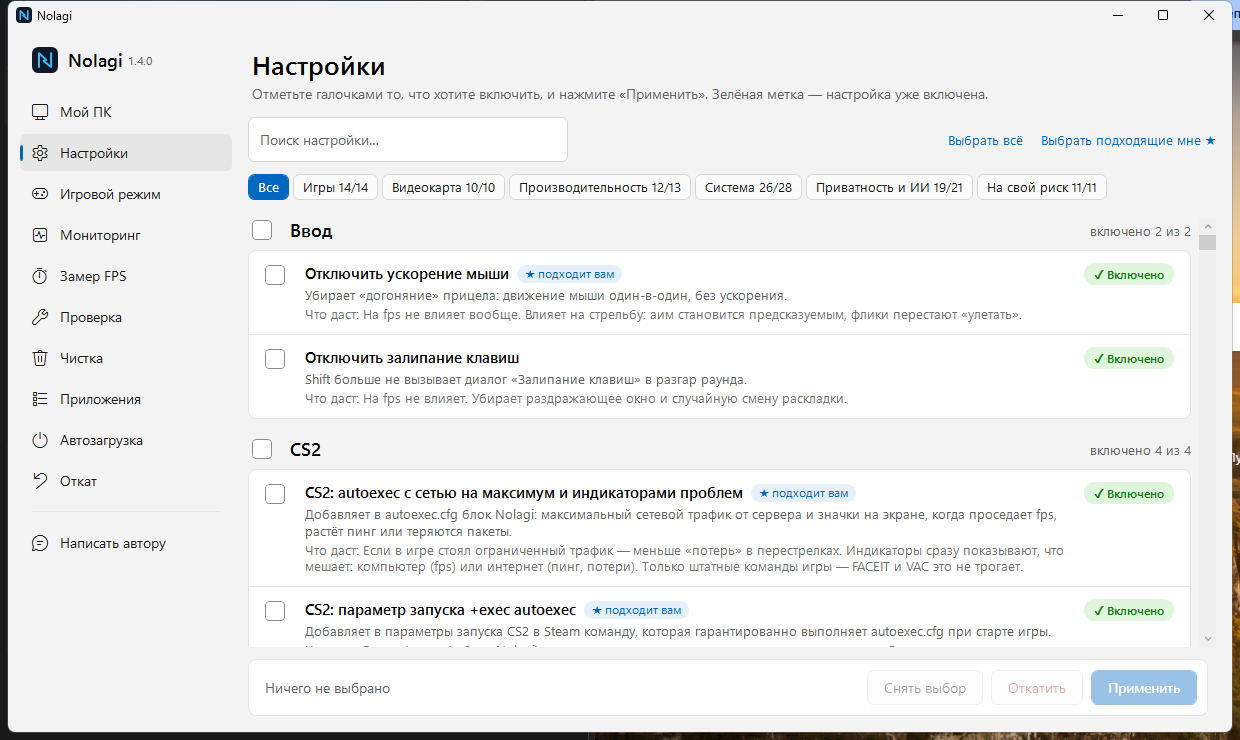
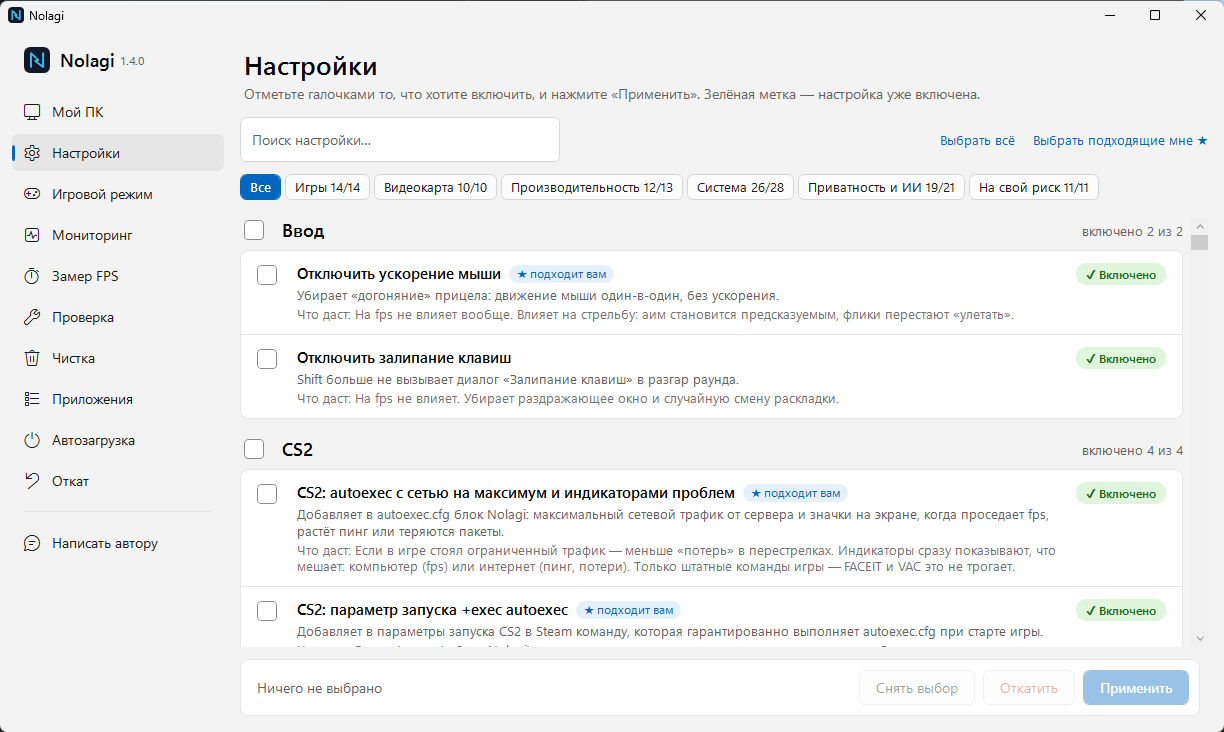
Игровой режим: исправления по ревью
- Выход при обновлении и при ошибке старта больше не прячет окно в трей: всё возвращается, ETW и значок убираются.
- Программа с видимым окном (например, «Сохранить изменения?») не убивается силой; решение — сразу за всю программу.
- Скачанная новая версия просит открытую старую выйти и ставится сама.
- Восстановление после аварийного выхода посреди игры (gamemode-pending.json).
- Запасной запуск через explorer пишет причину в журнал ошибок; schtasks не тормозит вкладку; dev-сборка со своим мьютексом.
- Скриншоты без рамки окна и обоев, сжаты (в 3 раза легче).

diff --git a/site/index.html b/site/index.html
@@ -337,7 +337,7 @@ footer a:hover{color:var(--ink)}
         <div class="ico"><svg viewBox="0 0 24 24" fill="none" stroke="currentColor" stroke-width="1.4" stroke-linecap="round"><path d="M4 7h9M17 7h3M4 17h3M11 17h9"/><circle cx="15" cy="7" r="2"/><circle cx="9" cy="17" r="2"/></svg></div>
         <h3>Около 100 настроек под ваш компьютер</h3>
         <p>Windows, видеокарта, CS2 и Dota 2. Nolagi смотрит на процессор, видеокарту, память и монитор и отмечает «подходит вам» — включается всё одной кнопкой.</p>
-        <img class="shot" src="img/2-nastroyki.png" width="1240" height="740" loading="lazy" alt="Вкладка «Настройки» в Nolagi">
+        <img class="shot" src="img/2-nastroyki.png" width="1224" height="732" loading="lazy" alt="Вкладка «Настройки» в Nolagi">
       </div></div></div>
 
       <div class="b-2 rv d1"><div class="shell"><div class="core">
@@ -402,7 +402,7 @@ footer a:hover{color:var(--ink)}
         <div class="key"><kbd>Ctrl+F11</kbd><p><b>Запись замера</b> прямо в игре — график по секундам и сравнение с прошлым разом.</p></div>
       </div>
     </div>
-    <div class="rv d1"><div class="shell"><div class="core"><img src="img/4-zamer-fps.png" width="1240" height="740" loading="lazy" alt="Вкладка «Замер FPS» в Nolagi"></div></div></div>
+    <div class="rv d1"><div class="shell"><div class="core"><img src="img/4-zamer-fps.png" width="1224" height="732" loading="lazy" alt="Вкладка «Замер FPS» в Nolagi"></div></div></div>
   </div>
 </section>
 

diff --git a/app/src/GameModeEngine.cs b/app/src/GameModeEngine.cs
@@ -67,6 +67,8 @@ namespace Pckit
 
     public class GameModeEngine
     {
+        [DllImport("user32.dll")] static extern bool IsWindowVisible(IntPtr h);
+
         readonly object sync = new object();
         static readonly int MySession = Process.GetCurrentProcess().SessionId;
         static readonly int MyPid = Process.GetCurrentProcess().Id;
@@ -75,6 +77,7 @@ namespace Pckit
         int gamePid;
         DateTime since;
         readonly List<string> closedNames = new List<string>();
+        readonly List<string> refusedNames = new List<string>();   // спросили «Сохранить?» — не трогаем
         readonly List<string> restart = new List<string>();                 // команды, которыми запустить закрытое обратно
         readonly Dictionary<int, Tuple<DateTime, ProcessPriorityClass>> lowered = new Dictionary<int, Tuple<DateTime, ProcessPriorityClass>>();
         int purges;
@@ -106,6 +109,7 @@ namespace Pckit
                         Process g = all.FirstOrDefault(p => p.Id == gamePid);
                         if (g == null || !string.Equals(ExeName(g), Game, StringComparison.OrdinalIgnoreCase)) { EndLocked(true); return; }
                         LowerAll(all, c);      // браузер, открытый посреди матча, тоже уступает игре
+                        if (lowered.Count != savedLowered) SavePending();
                         if (c.MemClean && MemPurge.Suits) MaybePurge();
                         Status = Describe();
                     }
@@ -123,10 +127,56 @@ namespace Pckit
         void Begin(Process game, string exe, Process[] all, GameModeConfig c)
         {
             Game = exe; gamePid = game.Id; since = DateTime.Now;
-            closedNames.Clear(); restart.Clear(); lowered.Clear(); purges = 0;
+            closedNames.Clear(); refusedNames.Clear(); restart.Clear(); lowered.Clear(); purges = 0;
             CloseApps(all, c);
             LowerAll(all, c);
+            SavePending();
             Status = Describe();
+        }
+
+        // ---- если Nolagi упадёт или его закроют через диспетчер задач посреди игры, при следующем запуске всё вернётся
+
+        static string PendingPath { get { return Path.Combine(Environment.GetFolderPath(Environment.SpecialFolder.LocalApplicationData), "Nolagi", "gamemode-pending.json"); } }
+        int savedLowered = -1;
+
+        void SavePending()
+        {
+            if (savedLowered == lowered.Count && restart.Count == 0 && lowered.Count == 0) return;
+            savedLowered = lowered.Count;
+            try
+            {
+                var low = lowered.Select(kv => (object)new Dictionary<string, object> {
+                    { "pid", kv.Key }, { "start", kv.Value.Item1.ToBinary().ToString(System.Globalization.CultureInfo.InvariantCulture) }, { "prio", (int)kv.Value.Item2 } }).ToArray();
+                Directory.CreateDirectory(Path.GetDirectoryName(PendingPath));
+                File.WriteAllText(PendingPath, J.Write(new Dictionary<string, object> { { "restart", restart.ToArray() }, { "lowered", low } }), new UTF8Encoding(false));
+            }
+            catch { }
+        }
+
+        static void DropPending() { try { File.Delete(PendingPath); } catch { } }
+
+        /// Вызывается при старте Nolagi: вернуть то, что не вернул упавший прошлый запуск.
+        public static void RecoverAfterCrash()
+        {
+            try
+            {
+                if (!File.Exists(PendingPath)) return;
+                var d = J.Parse(File.ReadAllText(PendingPath, Encoding.UTF8));
+                DropPending();
+                foreach (var l in J.A(d, "lowered"))
+                {
+                    try
+                    {
+                        var start = DateTime.FromBinary(long.Parse(J.S(l, "start"), System.Globalization.CultureInfo.InvariantCulture));
+                        using (var p = Process.GetProcessById((int)J.N(l, "pid")))
+                            if (p.StartTime == start && p.PriorityClass == ProcessPriorityClass.BelowNormal) p.PriorityClass = (ProcessPriorityClass)(int)J.N(l, "prio");
+                    }
+                    catch { }
+                }
+                var cmds = J.Get(d, "restart") as object[];
+                if (cmds != null) foreach (var c in cmds) { string s = Convert.ToString(c); if (!string.IsNullOrEmpty(s)) Unelevated.Start(s); }
+            }
+            catch { }
         }
 
         void EndLocked(bool restartApps)
@@ -144,6 +194,7 @@ namespace Pckit
             lowered.Clear();
             if (restartApps) foreach (var cmd in restart) Unelevated.Start(cmd);
             restart.Clear();
+            DropPending(); savedLowered = -1;
             Game = null; gamePid = 0;
             Status = "Ждёт запуска игры.";
         }
@@ -154,6 +205,7 @@ namespace Pckit
             if (!GameRules.BuiltInGames.TryGetValue(Game, out name)) name = Path.GetFileNameWithoutExtension(Game);
             var parts = new List<string>();
             if (closedNames.Count > 0) parts.Add("закрыто: " + string.Join(", ", closedNames));
+            if (refusedNames.Count > 0) parts.Add("не закрыто, ждёт ответа в своём окне: " + string.Join(", ", refusedNames));
             if (lowered.Count > 0) parts.Add("понижен приоритет у " + lowered.Count + " " + Plural(lowered.Count, "процесса", "процессов", "процессов"));
             if (purges > 0) parts.Add("память очищена " + purges + " " + Plural(purges, "раз", "раза", "раз"));
             int min = (int)(DateTime.Now - since).TotalMinutes;
@@ -183,19 +235,26 @@ namespace Pckit
                 string cmd = ProcInfo.CommandLine(first.Id);
                 if (string.IsNullOrEmpty(cmd)) { string path = ProcInfo.ImagePath(first.Id); if (path != null) cmd = "\"" + path + "\""; }
                 string label = ProcInfo.Describe(ProcInfo.ImagePath(first.Id), grp.Key);
-                bool closed = false;
-                foreach (var p in procs) { try { if (p.MainWindowHandle != IntPtr.Zero) p.CloseMainWindow(); } catch { } }
-                var deadline = DateTime.Now.AddSeconds(3);
+                // сначала просим закрыться по-хорошему; силой — только то, у чего не осталось видимого окна
+                // (лаунчер ушёл в трей). Если программа показывает окно — например, «Сохранить изменения?», — не трогаем.
+                bool asked = false;
+                foreach (var p in procs) { try { if (p.MainWindowHandle != IntPtr.Zero) { p.CloseMainWindow(); asked = true; } } catch { } }
+                var deadline = DateTime.Now.AddSeconds(asked ? 5 : 0);
+                var alive = new List<Process>();
                 foreach (var p in procs)
                 {
                     try
                     {
                         int left = (int)Math.Max(0, (deadline - DateTime.Now).TotalMilliseconds);
-                        if (!p.WaitForExit(p.MainWindowHandle != IntPtr.Zero ? left : 0)) p.Kill();
-                        closed = true;
+                        if (!p.WaitForExit(left)) alive.Add(p);
                     }
                     catch { }
                 }
+                // решаем за всю программу сразу: убить помощников, пока главное окно спрашивает «Сохранить?», — значит сломать её
+                bool refused = alive.Any(p => { try { p.Refresh(); IntPtr w = p.MainWindowHandle; return w != IntPtr.Zero && IsWindowVisible(w); } catch { return false; } });
+                if (refused) { refusedNames.Add(label); continue; }
+                bool closed = alive.Count < procs.Count;
+                foreach (var p in alive) { try { p.Kill(); closed = true; } catch { } }
                 if (!closed) continue;
                 closedNames.Add(label);
                 if (cmd != null && !restart.Contains(cmd)) restart.Add(cmd);
@@ -334,6 +393,9 @@ namespace Pckit
             if (exe == null || !File.Exists(exe)) return;
             if (!SafeDir.Elevated) { TryPlain(exe, cmdLine); return; }   // dev-сборка и так без прав администратора
             if (WithShellToken(cmdLine, Path.GetDirectoryName(exe))) return;
+            // запасной путь через explorer запускает без прав администратора, но без аргументов (лаунчер может открыться окном) —
+            // пишем причину, чтобы такие случаи были видны в панели автора
+            Telemetry.Error("gamemode-restart", "fallback to explorer: " + Path.GetFileName(exe) + ", win32 " + lastError);
             try { Process.Start(new ProcessStartInfo("explorer.exe", "\"" + exe + "\"") { UseShellExecute = false }); } catch { }
         }
 
@@ -347,7 +409,16 @@ namespace Pckit
             catch { }
         }
 
+        static int lastError;
+
         static bool WithShellToken(string cmdLine, string dir)
+        {
+            bool ok = TryShellToken(cmdLine, dir);
+            if (!ok) lastError = Marshal.GetLastWin32Error();
+            return ok;
+        }
+
+        static bool TryShellToken(string cmdLine, string dir)
         {
             int pid;
             IntPtr shell = GetShellWindow();

diff --git a/app/src/GameMode.cs b/app/src/GameMode.cs
@@ -17,7 +17,9 @@ namespace Pckit
 {
     public partial class MainWindow
     {
-        public const string ShowEventName = "Local\\Nolagi.Show";
+        static readonly string DevSuffix = Path.GetFileName(System.Reflection.Assembly.GetExecutingAssembly().Location).IndexOf("-dev", StringComparison.OrdinalIgnoreCase) >= 0 ? ".dev" : "";
+        public static readonly string ShowEventName = "Local\\Nolagi.Show" + DevSuffix;   // вторая копия просит показать окно
+        public static readonly string ExitEventName = "Local\\Nolagi.Exit" + DevSuffix;   // скачанная новая версия просит выйти
 
         RadioButton navGame;
         readonly GameModeEngine gm = new GameModeEngine();
@@ -28,6 +30,7 @@ namespace Pckit
         System.Windows.Forms.ToolStripMenuItem trayGameItem;
         bool reallyExit, sessionEnding;
         bool startHidden, neverShown;
+        bool autoCache;   // последнее известное состояние автозапуска — чтобы галочка не мигала при перерисовке
 
         /// Вызывается из конструктора: запуск в трее и сигнал «покажись» от второй копии Nolagi.
         void InitInstance(bool hidden)
@@ -45,6 +48,14 @@ namespace Pckit
                 var ev = new EventWaitHandle(false, EventResetMode.AutoReset, ShowEventName);
                 var t = new Thread(() => { while (true) { ev.WaitOne(); Dispatcher.BeginInvoke(new Action(ShowFromTray)); } }) { IsBackground = true };
                 t.Start();
+                var ex = new EventWaitHandle(false, EventResetMode.AutoReset, ExitEventName);
+                var t2 = new Thread(() =>
+                {
+                    ex.WaitOne();
+                    // выходим по-настоящему: закрытые игровым режимом программы вернутся, приоритеты восстановятся
+                    Dispatcher.BeginInvoke(new Action(() => { reallyExit = true; Close(); }));
+                }) { IsBackground = true };
+                t2.Start();
             }
             catch { }
         }
@@ -52,8 +63,10 @@ namespace Pckit
         /// После построения окна: игровой режим, если он был включён.
         void InitGameMode()
         {
-            if (cfg.GameModeOn) StartGameMode();
             if (startHidden || cfg.GameModeOn) EnsureTray();
+            // сначала вернуть то, что не вернул прошлый запуск (если он упал посреди игры), потом следить за играми
+            Task.Run(() => GameModeEngine.RecoverAfterCrash())
+                .ContinueWith(t => Dispatcher.BeginInvoke(new Action(() => { if (cfg.GameModeOn) StartGameMode(); })));
         }
 
         GameModeConfig GmSnapshot()
@@ -214,10 +227,13 @@ namespace Pckit
             });
 
             // автозапуск
-            var auto = new CheckBox { Style = St("Chk"), Margin = new Thickness(0, 14, 0, 0), IsEnabled = Autostart.Available };
-            bool autoOn = false;
-            try { autoOn = Autostart.On; } catch { }
-            auto.IsChecked = autoOn;
+            var auto = new CheckBox { Style = St("Chk"), Margin = new Thickness(0, 14, 0, 0), IsEnabled = false, IsChecked = autoCache };
+            if (Autostart.Available)
+            {
+                // schtasks.exe — отдельный процесс: спрашиваем в фоне, чтобы вкладка не подвисала
+                Task.Run(() => { try { return Autostart.On; } catch { return false; } })
+                    .ContinueWith(t => Dispatcher.BeginInvoke(new Action(() => { autoCache = t.Result; auto.IsChecked = t.Result; auto.IsEnabled = true; })));
+            }
             auto.Content = new TextBlock { Text = "Запускать Nolagi вместе с Windows (сразу в трей)", Margin = new Thickness(8, 0, 0, 0) };
             var autoNote = new TextBlock { FontSize = 12.5, Foreground = Res("Mut"), TextWrapping = TextWrapping.Wrap, Margin = new Thickness(30, 2, 0, 0) };
             autoNote.Text = Autostart.Available
@@ -229,7 +245,7 @@ namespace Pckit
                 auto.IsEnabled = false;
                 bool ok = await Task.Run(() => { try { return Autostart.Set(want); } catch { return false; } });
                 bool now = await Task.Run(() => { try { return Autostart.On; } catch { return false; } });
-                auto.IsChecked = now; auto.IsEnabled = true;
+                auto.IsChecked = now; auto.IsEnabled = true; autoCache = now;
                 if (!ok) { autoNote.Text = "Не получилось изменить автозапуск. Попробуйте ещё раз."; autoNote.Foreground = Res("Bad"); }
                 else if (want && !cfg.GameModeOn) { SetGameMode(true); on.IsChecked = true; }
             };

diff --git a/app/src/App.cs b/app/src/App.cs
@@ -32,7 +32,22 @@ namespace Pckit
 
             // одна копия: вторая (ярлык, пока Nolagi в трее) просто показывает окно первой
             bool tray = args.Contains("/tray"), first;
-            var single = new System.Threading.Mutex(true, "Local\\Nolagi.App" + (SafeDir.Elevated ? "" : ".dev"), out first);
+            bool dev = System.IO.Path.GetFileName(Assembly.GetExecutingAssembly().Location).IndexOf("-dev", StringComparison.OrdinalIgnoreCase) >= 0;
+            string mutexName = "Local\\Nolagi.App" + (dev ? ".dev" : "");
+            var single = new System.Threading.Mutex(true, mutexName, out first);
+            if (!first && !tray && Install.IsNewerDownload)
+            {
+                // скачали новую версию, а старая открыта (например, в трее): просим её выйти и ставим новую
+                try { System.Threading.EventWaitHandle.OpenExisting(Pckit.MainWindow.ExitEventName).Set(); } catch { }
+                bool got;
+                try { got = single.WaitOne(20000); } catch (System.Threading.AbandonedMutexException) { got = true; }
+                if (got)
+                {
+                    single.ReleaseMutex();
+                    if (Install.EnsureInstalled(args)) return;   // установлено и запущено из Program Files
+                    single = new System.Threading.Mutex(true, mutexName, out first);
+                }
+            }
             if (!first)
             {
                 if (!tray) try { System.Threading.EventWaitHandle.OpenExisting(Pckit.MainWindow.ShowEventName).Set(); } catch { }
@@ -171,6 +186,7 @@ namespace Pckit
             catch (Exception ex)
             {
                 MessageBox.Show("Не удалось распаковать файлы программы:\n" + ex.Message, "Nolagi", MessageBoxButton.OK, MessageBoxImage.Error);
+                reallyExit = true;   // настоящий выход, не в трей
                 Close();
                 return;
             }
@@ -183,6 +199,7 @@ namespace Pckit
             {
                 Telemetry.Error("scan", ex.Message);
                 MessageBox.Show("Не удалось проверить компьютер:\n" + ex.Message, "Nolagi", MessageBoxButton.OK, MessageBoxImage.Error);
+                reallyExit = true;   // настоящий выход, не в трей
                 Close();
                 return;
             }
@@ -428,6 +445,7 @@ namespace Pckit
                 return;
             }
             currentOv.Finished = true;
+            reallyExit = true;   // иначе OnClosing спрячет окно в трей и ничего не вернёт
             Application.Current.Shutdown();
         }
 

diff --git a/app/src/Install.cs b/app/src/Install.cs
@@ -66,6 +66,21 @@ namespace Pckit
             }
         }
 
+        /// Этот exe — скачанная версия новее установленной (а установленная, видимо, сейчас открыта).
+        public static bool IsNewerDownload
+        {
+            get
+            {
+                try
+                {
+                    if (!SafeDir.Elevated || IsInstalledCopy || !File.Exists(Exe)) return false;
+                    if (Path.GetFileName(Self).IndexOf("-dev", StringComparison.OrdinalIgnoreCase) >= 0) return false;
+                    return new Version(App.Version) > new Version(FileVersionInfo.GetVersionInfo(Exe).FileVersion);
+                }
+                catch { return false; }
+            }
+        }
+
         static bool InstalledRunning()
         {
             int me = Process.GetCurrentProcess().Id;

diff --git a/CHANGELOG.md b/CHANGELOG.md
@@ -6,9 +6,11 @@
   - Для каждой программы выбирается «Закрыть», «Ниже приоритет» или «Не трогать». По умолчанию закрываются лаунчеры (Epic, EA, Ubisoft, Battle.net, GOG) и OneDrive, браузеры и торренты уступают процессор игре, Discord, OBS, Telegram и Spotify не трогаются.
   - Закрытые программы после игры запускаются снова — с той же командой (лаунчер возвращается в трей) и с обычными правами, без администратора.
   - Steam, FACEIT, античиты и системные программы Windows не трогаются никогда.
+  - Программа, которая в ответ на закрытие спрашивает «Сохранить изменения?», не закрывается силой — Nolagi оставляет её как есть.
+  - Если Nolagi закроется аварийно посреди игры, при следующем запуске закрытые программы запустятся снова, а приоритеты вернутся.
 - **Очистка «ждущей» памяти во время игры** (как ISLC) — только на ПК с 16 ГБ памяти и меньше и только когда свободной памяти остаётся меньше 1 ГБ, не чаще раза в 2 минуты.
 - **Автозапуск в трей** (по желанию, по умолчанию выключен): чтобы игровой режим срабатывал, даже если вы не открывали Nolagi. Если игровой режим включён, крестик сворачивает Nolagi в трей; выйти совсем — правый клик по значку → «Выход».
-- Повторный запуск Nolagi больше не открывает вторую копию, а показывает уже открытое окно.
+- Повторный запуск Nolagi больше не открывает вторую копию, а показывает уже открытое окно. Если запустить скачанную более новую версию, старая закроется сама и новая установится.
 
 ## 1.3.0
 

diff --git a/PRIVACY.md b/PRIVACY.md
@@ -35,6 +35,7 @@ Nolagi работает на вашем ПК и ничего не отправл
 ## Что хранится на ПК
 
 - `%LOCALAPPDATA%\Nolagi\client.json` — ник, согласие, номер установки, включён ли оверлей FPS, настройки игрового режима (свои игры и что делать с какой программой — только имена exe-файлов). Никуда не отправляется.
+- `%LOCALAPPDATA%\Nolagi\gamemode-pending.json` — только пока идёт игра с включённым игровым режимом: какие программы запустить снова и каким вернуть приоритет. Удаляется после игры.
 - Задача планировщика `Nolagi` — только если вы включили «Запускать Nolagi вместе с Windows». Выключается той же галочкой и удаляется вместе с программой.
 - `%LOCALAPPDATA%\Nolagi\fps-runs.json` — ваши замеры FPS в играх (название exe игры, дата, FPS). Никуда не отправляется.
 - `%ProgramData%\pckit\` — журнал отката (что и как вернуть).
